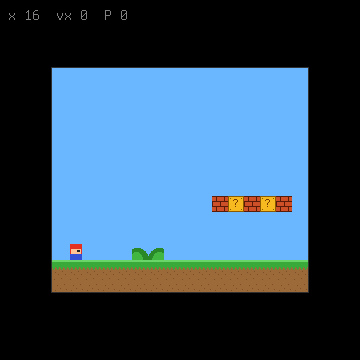
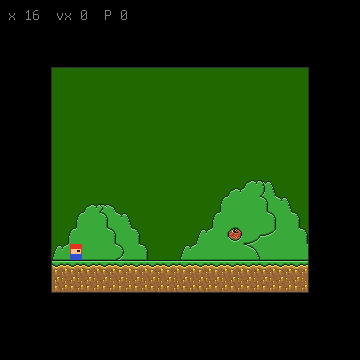
smw: guide edition on the real level, with redrawn graphics
Claude-Session: https://claude.ai/code/session_01819Cst5YoYQmWbqZtMgsvj

diff --git a/carts/smw/guide/build.py b/carts/smw/guide/build.py
@@ -1,178 +1,148 @@
 #!/usr/bin/env python3
-"""Builds the guide edition: the same game code, with an original tile sheet and level.
+"""Builds the guide edition: the same level, the same game code, redrawn graphics.
 
-    python3 carts/smw/guide/build.py [OUT_DIR]
+    python3 carts/smw/guide/build.py [EXTRACTED_DIR] [OUT_DIR]
 
-Everything here is drawn and laid out by this script (flat colour shapes, a small hand-made
-level of 4 screens). It reads no ROM and nothing from carts/smw/extracted, so its screenshots
-can go into the PDF guide. physics.lua and game.lua are joined unchanged, as in
-carts/smw/build/build.py. Default output: build/smw-guide (guide.b16, guide.bme)."""
-import os, subprocess, sys
-from PIL import Image, ImageDraw
+The level is the real one: the Map16 grid, the collision layer, the camera and the physics are
+identical to carts/smw/build/build.py (it reads the same files of scripts/smw_map16.py, so it
+needs the player's ROM once). Only the pixels change. From the level picture this script keeps
+the shape (where a pixel is opaque) and a coarse colour role (green, earth, yellow, red, blue,
+light, grey, dark), then paints each role with its own flat colours and its own light and
+shadow from the shape. The shading and the earth speckle are made here. No pixel of the ROM
+reaches the output. Run it for screenshots of the PDF guide; the real build is for the
+benchmark. Default output: build/smw-guide (guide.b16, guide.bme)."""
+import colorsys, importlib.util, json, os, subprocess, sys
+from PIL import Image
 
 ROOT = os.path.dirname(os.path.dirname(os.path.dirname(os.path.dirname(os.path.abspath(__file__)))))
-COLS, ROWS = 64, 27                  # the level in 16x16 tiles: 4 screens of 16, 27 rows as the game expects
-SKY = 0x6CB6FF
+spec = importlib.util.spec_from_file_location("smw_real_build", ROOT + "/carts/smw/build/build.py")
+real = importlib.util.module_from_spec(spec)
+spec.loader.exec_module(real)
+
+# role -> (light, base, shadow)
+PAINT = {
+    "green": ((0x7BE07B), (0x3FA83F), (0x2A7A2A)),
+    "earth": ((0xB8844A), (0x9C6B3A), (0x7B5128)),
+    "yellow": ((0xFFE060), (0xF0C020), (0xB08810)),
+    "red": ((0xF06850), (0xD04030), (0x982818)),
+    "blue": ((0x6890F0), (0x4068D8), (0x2848A0)),
+    "light": ((0xFFFFFF), (0xE8E8E8), (0xB0B0B0)),
+    "grey": ((0xB0B0B0), (0x909090), (0x606060)),
+    "dark": ((0x305030), (0x203020), (0x102010)),
+}
 
 
-def rgb(h):
-    return ((h >> 16) & 255, (h >> 8) & 255, h & 255, 255)
+def role(px):
+    """A coarse colour role from one source pixel. Its brightness is thrown away."""
+    r, g, b, a = px
+    if a < 128:
+        return None
+    h, s, v = colorsys.rgb_to_hsv(r / 255, g / 255, b / 255)
+    h *= 360
+    if v < 0.22:
+        return "dark"
+    if s < 0.18:
+        return "light" if v > 0.75 else "grey"
+    if 65 <= h < 170:
+        return "green"
+    if 15 <= h < 48 and s < 0.85 and v < 0.85:
+        return "earth"
+    if 40 <= h < 70:
+        return "yellow"
+    if h < 15 or h >= 330:
+        return "red"
+    if 170 <= h < 270:
+        return "blue"
+    return "earth"
 
 
-# ---- the 16x16 tiles, drawn with flat shapes ------------------------------------------------
-def tile_grass():
-    t = Image.new("RGBA", (16, 16), rgb(0x9C6B3A)); d = ImageDraw.Draw(t)
-    d.rectangle([0, 0, 15, 5], fill=rgb(0x3FA83F)); d.rectangle([0, 0, 15, 1], fill=rgb(0x6BD66B))
-    for x in range(0, 16, 4):
-        d.polygon([(x, 6), (x + 3, 6), (x + 1, 9)], fill=rgb(0x3FA83F))
-    d.point([(3, 12), (10, 11), (13, 14), (6, 14)], fill=rgb(0x7B5128))
-    return t
-
-
-def tile_dirt():
-    t = Image.new("RGBA", (16, 16), rgb(0x9C6B3A)); d = ImageDraw.Draw(t)
-    d.point([(2, 3), (9, 2), (12, 8), (5, 9), (14, 13), (3, 14), (8, 12)], fill=rgb(0x7B5128))
-    return t
-
-
-def tile_brick():
-    t = Image.new("RGBA", (16, 16), rgb(0xC8502A)); d = ImageDraw.Draw(t)
-    for y in (0, 5, 10, 15):
-        d.line([(0, y), (15, y)], fill=rgb(0x5A1E0E))
-    for y, off in ((0, 4), (5, 0), (10, 4)):
-        for x in (off, off + 8):
-            d.line([(x, y), (x, y + 5)], fill=rgb(0x5A1E0E))
-    return t
-
-
-def tile_question():
-    t = Image.new("RGBA", (16, 16), rgb(0xF0B820)); d = ImageDraw.Draw(t)
-    d.rectangle([0, 0, 15, 15], outline=rgb(0x8A5A00))
-    for p in ((2, 2), (13, 2), (2, 13), (13, 13)):
-        d.point(p, fill=rgb(0x8A5A00))
-    for p in ((5, 4), (6, 3), (7, 3), (8, 3), (9, 4), (9, 5), (8, 6), (7, 7), (7, 8), (7, 10)):
-        d.point(p, fill=rgb(0x7A3E00))
-    return t
-
-
-def tile_pipe(top, right):
-    t = Image.new("RGBA", (16, 16), rgb(0x2FA84F)); d = ImageDraw.Draw(t)
-    d.rectangle([0, 0, 15, 15], fill=rgb(0x2FA84F))
-    edge = 15 if right else 0
-    d.line([(edge, 0), (edge, 15)], fill=rgb(0x145A28))
-    hi = 12 if not right else 3
-    d.line([(hi, 0), (hi, 15)], fill=rgb(0x7BE59B))
-    if top:
-        d.line([(0, 0), (15, 0)], fill=rgb(0x145A28)); d.line([(0, 15), (15, 15)], fill=rgb(0x145A28))
-    return t
-
-
-def tile_cloud(right):
-    t = Image.new("RGBA", (16, 16), (0, 0, 0, 0)); d = ImageDraw.Draw(t)
-    d.ellipse([-4 if not right else 2, 4, 14 if not right else 20, 22], fill=rgb(0xFFFFFF))
-    d.rectangle([0, 10, 15, 16], fill=rgb(0xFFFFFF))
-    d.line([(0, 15), (15, 15)], fill=rgb(0xC8DCF0))
-    return t
-
-
-def tile_bush(right):
-    t = Image.new("RGBA", (16, 16), (0, 0, 0, 0)); d = ImageDraw.Draw(t)
-    d.ellipse([-6 if not right else 0, 4, 16 if not right else 22, 26], fill=rgb(0x2E8B2E))
-    d.ellipse([-2 if not right else 4, 8, 10 if not right else 18, 24], fill=rgb(0x46B546))
-    return t
-
-
-def tile_coin():
-    t = Image.new("RGBA", (16, 16), (0, 0, 0, 0)); d = ImageDraw.Draw(t)
-    d.ellipse([4, 2, 11, 13], fill=rgb(0xFFD030), outline=rgb(0xA87000))
-    d.line([(7, 5), (7, 10)], fill=rgb(0xA87000))
-    return t
-
-
-TILES = [("grass", tile_grass()), ("dirt", tile_dirt()), ("brick", tile_brick()), ("question", tile_question()),
-         ("pipe_tl", tile_pipe(True, False)), ("pipe_tr", tile_pipe(True, True)),
-         ("pipe_bl", tile_pipe(False, False)), ("pipe_br", tile_pipe(False, True)),
-         ("cloud_l", tile_cloud(False)), ("cloud_r", tile_cloud(True)),
-         ("bush_l", tile_bush(False)), ("bush_r", tile_bush(True)), ("coin", tile_coin())]
-SOLID = {"grass", "dirt", "brick", "question", "pipe_tl", "pipe_tr", "pipe_bl", "pipe_br"}
-
-
-def build_sheet():
-    """Cell 0 is empty. Each tile takes 4 cells in the order the map wants: TL, BL, TR, BR."""
-    ncells = 1 + 4 * len(TILES) + 1                  # empty + tiles + the collision marker
-    cols = 16
-    rows = (ncells + cols - 1) // cols
-    sheet = Image.new("RGBA", (cols * 8, rows * 8), (0, 0, 0, 0))
-    ids, n = {}, 1
-    for name, img in TILES:
-        quad = []
-        for (cx, cy) in ((0, 0), (0, 1), (1, 0), (1, 1)):     # TL, BL, TR, BR
-            sheet.paste(img.crop((cx * 8, cy * 8, cx * 8 + 8, cy * 8 + 8)), ((n % cols) * 8, (n // cols) * 8))
-            quad.append(n)
-            n += 1
-        ids[name] = quad
-    return sheet, ids, n                              # n is the collision marker cell (left transparent)
-
-
-# ---- the level ---------------------------------------------------------------------------------
-def build_level():
-    g = [[None] * COLS for _ in range(ROWS)]
-
-    def put(x, y, name):
-        if 0 <= x < COLS and 0 <= y < ROWS:
-            g[y][x] = name
-
-    pit = range(28, 31)
-    for x in range(COLS):
-        if x in pit:
-            continue
-        put(x, 24, "grass"); put(x, 25, "dirt"); put(x, 26, "dirt")
-    for x, name in zip(range(10, 15), ("brick", "question", "brick", "question", "brick")):
-        put(x, 20, name)
-    for x in range(16, 20):                           # a higher ledge of bricks
-        put(x, 17, "brick")
-    put(17, 16, "coin"); put(18, 16, "coin")
-    put(22, 22, "pipe_tl"); put(23, 22, "pipe_tr"); put(22, 23, "pipe_bl"); put(23, 23, "pipe_br")
-    for i, x in enumerate(range(36, 40)):             # a staircase of bricks
-        for y in range(23 - i, 24):
-            put(x, y, "brick")
-    for x in range(44, 49):
-        put(x, 21, "grass")
-    put(45, 20, "coin"); put(46, 20, "coin"); put(47, 20, "coin")
-    for x in (3, 26, 52, 58):
-        put(x, 8, "cloud_l"); put(x + 1, 8, "cloud_r")
-    for x in (5, 33, 55):
-        put(x, 23, "bush_l"); put(x + 1, 23, "bush_r")
-    return g
+def restyle(src):
+    w, h = src.size
+    px = src.load()
+    roles = [[role(px[x, y]) for x in range(w)] for y in range(h)]
+    out = Image.new("RGBA", (w, h), (0, 0, 0, 0))
+    o = out.load()
+    for y in range(h):
+        for x in range(w):
+            rl = roles[y][x]
+            if rl is None:
+                continue
+            up = roles[y - 1][x] if y else None
+            dn = roles[y + 1][x] if y + 1 < h else rl
+            lf = roles[y][x - 1] if x else None
+            rt = roles[y][x + 1] if x + 1 < w else rl
+            light, base, shade = PAINT[rl]
+            c = base
+            if up != rl and rl != "dark":
+                c = light                                    # a lit top edge
+            elif dn != rl or rt != rl:
+                c = shade                                    # the shadow side
+            if rl == "earth" and c == base and ((x * 7 + y * 13) % 11 == 0 or (x % 16 * 5 + y % 16 * 3) % 17 == 0):
+                c = shade                                    # the speckle of the earth
+            o[x, y] = ((c >> 16) & 255, (c >> 8) & 255, c & 255, 255)
+    return out
 
 
 def main():
-    out = sys.argv[1] if len(sys.argv) > 1 else ROOT + "/build/smw-guide"
+    ex = sys.argv[1] if len(sys.argv) > 1 else ROOT + "/carts/smw/extracted"
+    out = sys.argv[2] if len(sys.argv) > 2 else ROOT + "/build/smw-guide"
     os.makedirs(out, exist_ok=True)
-    sheet, ids, col = build_sheet()
-    sheet.save(out + "/sheet.png")
-    grid = build_level()
+    defs = {int(k, 16): v for k, v in json.load(open(ex + "/map16.json")).items()}
+    defs[0x025] = (0, 0, 0, 0)
+    level = json.load(open(ex + "/level.json"))
+    sheet = Image.open(ex + "/sheet.png").convert("RGBA")
+    cols = sheet.width // 8
+    cell_img = lambda n: sheet.crop(((n % cols) * 8, (n // cols) * 8, (n % cols) * 8 + 8, (n // cols) * 8 + 8))
+    W, H = len(level[0]) * 16, len(level) * 16
+    pic = Image.new("RGBA", (W, H), (0, 0, 0, 0))
+    for y, row in enumerate(level):
+        for x, k in enumerate(row):
+            tl, bl, tr, br = defs.get(k, (0, 0, 0, 0))
+            for n, (dx, dy) in zip((tl, bl, tr, br), ((0, 0), (0, 8), (8, 0), (8, 8))):
+                if n:
+                    pic.paste(cell_img(n), (x * 16 + dx, y * 16 + dy))
+    new = restyle(pic)
+    cells, cell_list = {}, []
     main_rows, col_rows = [], []
-    for row in grid:
-        top, bot, ctop, cbot = [], [], [], []
-        for name in row:
-            tl, bl, tr, br = ids[name] if name else (0, 0, 0, 0)
-            top += [tl, tr]; bot += [bl, br]
-            c = col if name in SOLID else 0
-            ctop += [c, c]; cbot += [c, c]
-        main_rows += [top, bot]; col_rows += [ctop, cbot]
+    col_n = None
+    for cy in range(len(level) * 2):
+        mrow, crow = [], []
+        for cx in range(len(level[0]) * 2):
+            im = new.crop((cx * 8, cy * 8, cx * 8 + 8, cy * 8 + 8))
+            key = im.tobytes()
+            if im.getchannel("A").getbbox() is None:
+                mrow.append(0)
+            else:
+                if key not in cells:
+                    cells[key] = len(cells) + 1
+                    cell_list.append(im)
+                mrow.append(cells[key])
+        main_rows.append(mrow)
+    col_n = len(cell_list) + 1
+    for y, row in enumerate(level):
+        for half in (0, 1):
+            crow = []
+            for k in row:
+                c = col_n if real.solid(k) else 0
+                crow += [c, c]
+            col_rows.append(crow)
+    n_cells = len(cell_list) + 2
+    sh = Image.new("RGBA", (128, ((n_cells + 15) // 16) * 8), (0, 0, 0, 0))
+    for i, im in enumerate(cell_list, 1):
+        sh.paste(im, ((i % 16) * 8, (i // 16) * 8))
+    sh.save(out + "/sheet.png")
     for name, rows in (("map_main.csv", main_rows), ("map_col.csv", col_rows)):
         open(out + "/" + name, "w").write("\n".join(",".join(map(str, r)) for r in rows) + "\n")
-    open(out + "/flags.csv", "w").write("%d=1\n" % col)          # flag 0 = solid, on the marker cell only
+    open(out + "/flags.csv", "w").write("%d=1\n" % col_n)
     lua = open(ROOT + "/carts/smw/src/physics.lua").read() + "\n" + open(ROOT + "/carts/smw/src/game.lua").read()
-    lua = lua.replace("local backdrop = 0xFF0000", "local backdrop = 0x%06X" % SKY)
+    lua = lua.replace("local backdrop = 0xFF0000", "local backdrop = 0x%06X" % real.backdrop(ex))
     open(out + "/main.lua", "w").write(lua)
     base = [sys.executable, ROOT + "/scripts/mkbm.py", "--lua", out + "/main.lua", "--sheet", out + "/sheet.png",
             "--map", out + "/map_main.csv", "--map", "col=" + out + "/map_col.csv", "--flags", out + "/flags.csv",
             "--info", ROOT + "/carts/smw/bm.info", "--title", "SMW Guide Edition", "--targets", "rgb30", "--input", "pad"]
     subprocess.run(base + ["-o", out + "/guide.b16", "--b16"], check=True)
     subprocess.run(base + ["-o", out + "/guide.bme"], check=True)
-    print("built", out + "/guide.b16")
+    print("built", out + "/guide.b16", len(cell_list), "cells")
 
 
 if __name__ == "__main__":

diff --git a/tests/smw/guide_shots.py b/tests/smw/guide_shots.py
@@ -1,9 +1,9 @@
 #!/usr/bin/env python3
-"""Screenshots of the guide edition (original art only) for the PDF guide.
+"""Screenshots of the guide edition (the real level, redrawn graphics) for the PDF guide.
 
     python3 tests/smw/guide_shots.py
 
-Builds carts/smw/guide (build/smw-guide/guide.b16), plays a few input scripts in bmhost
+Builds carts/smw/guide/build.py (build/smw-guide/guide.b16), plays a few input scripts in bmhost
 (make build/host/bmhost-bin first) and writes manuals/shots/smw-guide-NN-name.png."""
 import os, shutil, subprocess, sys, tempfile
 from PIL import Image

diff --git a/docs/progress/smw.md b/docs/progress/smw.md
@@ -45,8 +45,14 @@ the finished cartridge stay on the user's machine and SD card.
 
 ## Guide edition
 
-- `carts/smw/guide/build.py` builds `build/smw-guide/guide.b16` with an original tile sheet and a
-  hand-made level of 4 screens. It reads no ROM data. It joins `physics.lua` and `game.lua`
-  unchanged.
+- It is the same game on the same level. The Map16 grid, the collision layer, the camera, and
+  the physics are the real ones. Only the pixels change.
+- `carts/smw/guide/build.py` reads the files of `scripts/smw_map16.py`. From the level picture it
+  keeps the shape and a colour role (green, earth, yellow, red, blue, light, grey, dark). It paints
+  each role with its own colours, light, shadow, and earth speckle. No ROM pixel reaches the
+  output. It builds `build/smw-guide/guide.b16`.
 - `tests/smw/guide_shots.py` plays input scripts in `bmhost` and writes
-  `manuals/shots/smw-guide-NN-name.png`. Use these images in the PDF guide.
+  `manuals/shots/smw-guide-NN-name.png`. Use these images in the PDF guide. The real build
+  (`carts/smw/build/build.py`) stays for the benchmark.
+- Open: restyle Mario's real sprites the same way when they are captured. The two-tone bush
+  becomes one green.
